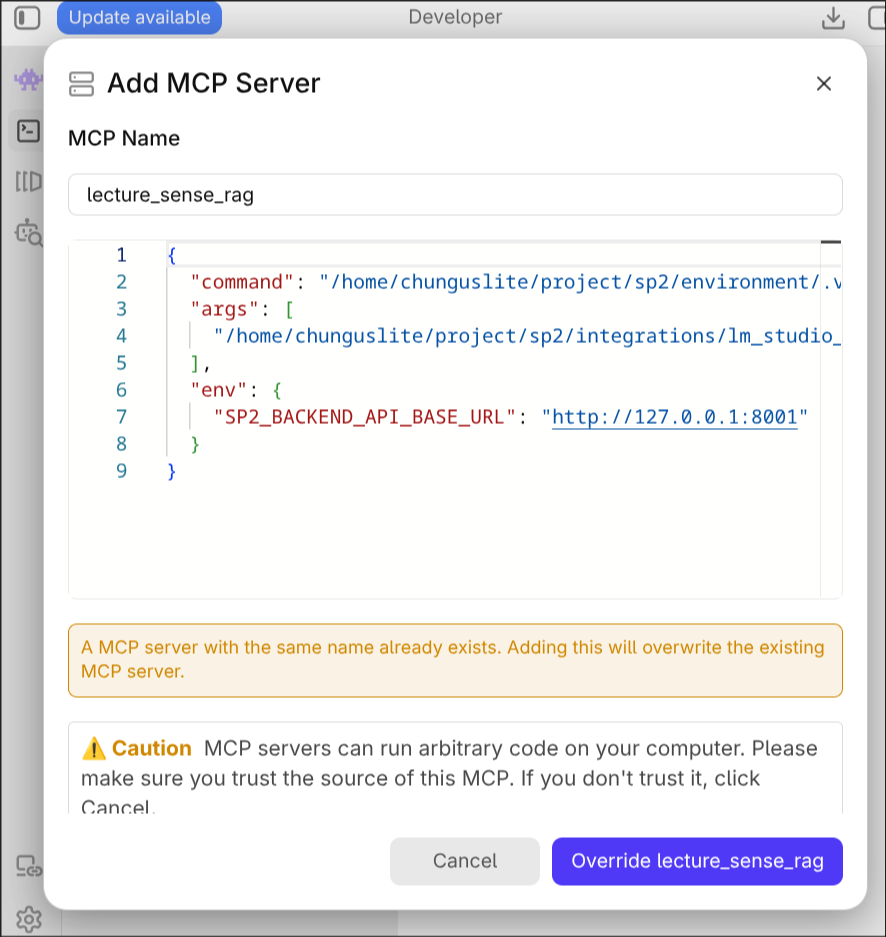
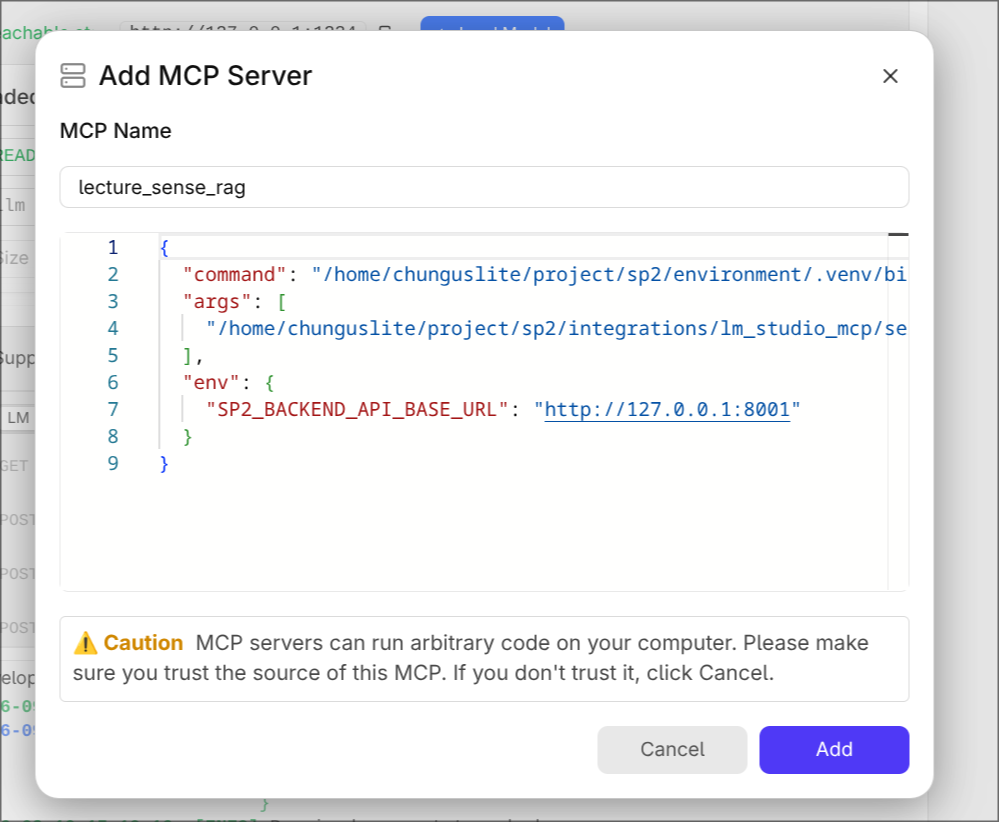
Recapture the MCP approval screenshots as a first-time install
The previous captures were taken on a machine that already had SP2
registered, so the dialog carried an "already exists" warning and an
Override button - not what a new user sees. Recaptured with the entry
removed first, so the dialog shows the plain Add button.

The Override wording is kept in the text as the secondary case for
anyone reinstalling, rather than described as what the screenshot shows.

diff --git a/Documentation/screenshots/README.md b/Documentation/screenshots/README.md
@@ -8,7 +8,7 @@ README has no broken image references.
 | `lm-studio-download.jpg` | The lmstudio.ai download page, showing the OS, architecture and version selectors. |
 | `mcp-json-step1.jpg` | The Developer tab (terminal icon, far-left sidebar) and Local Server panel, with the `mcp.json` button circled. |
 | `mcp-json-step2.jpg` | The Edit mcp.json dialog with the SP2 `lecture_sense_rag` entry. |
-| `mcp-approve-prompt.jpg` | LM Studio's Add MCP Server dialog for `lecture_sense_rag`, opened at the end of setup. Shows "Override" rather than "Add" because the server already existed on this machine. |
+| `mcp-approve-prompt.jpg` | LM Studio's Add MCP Server dialog for `lecture_sense_rag`, opened at the end of setup. Captured as a first-time install, so the button reads Add. |
 | `mcp-server-added.jpg` | The confirmation that `lecture_sense_rag` was added. |
 | `enable-tool-in-chat.jpg` | The Integrations panel (hammer icon) with `mcp/lecture-sense-rag` toggled on, plus a real `sp2_list_packs` call and its grounded answer. |
 

diff --git a/README.md b/README.md
@@ -125,9 +125,9 @@ The caution about MCP servers running code is LM Studio's standard warning for
 any MCP server. In this case the code being run is SP2's own `server.py`, from
 the repository you cloned.
 
-If you have installed SP2 before, the dialog warns that a server of the same
-name already exists and the button reads **Override lecture_sense_rag** instead
-of Add. That is expected - it is replacing the old entry with current paths.
+If you have installed SP2 before, the dialog also warns that a server of that
+name already exists and the button reads **Override lecture_sense_rag** rather
+than Add. That is expected - it replaces the old entry with current paths.
 
 A confirmation appears once it is added:
 
